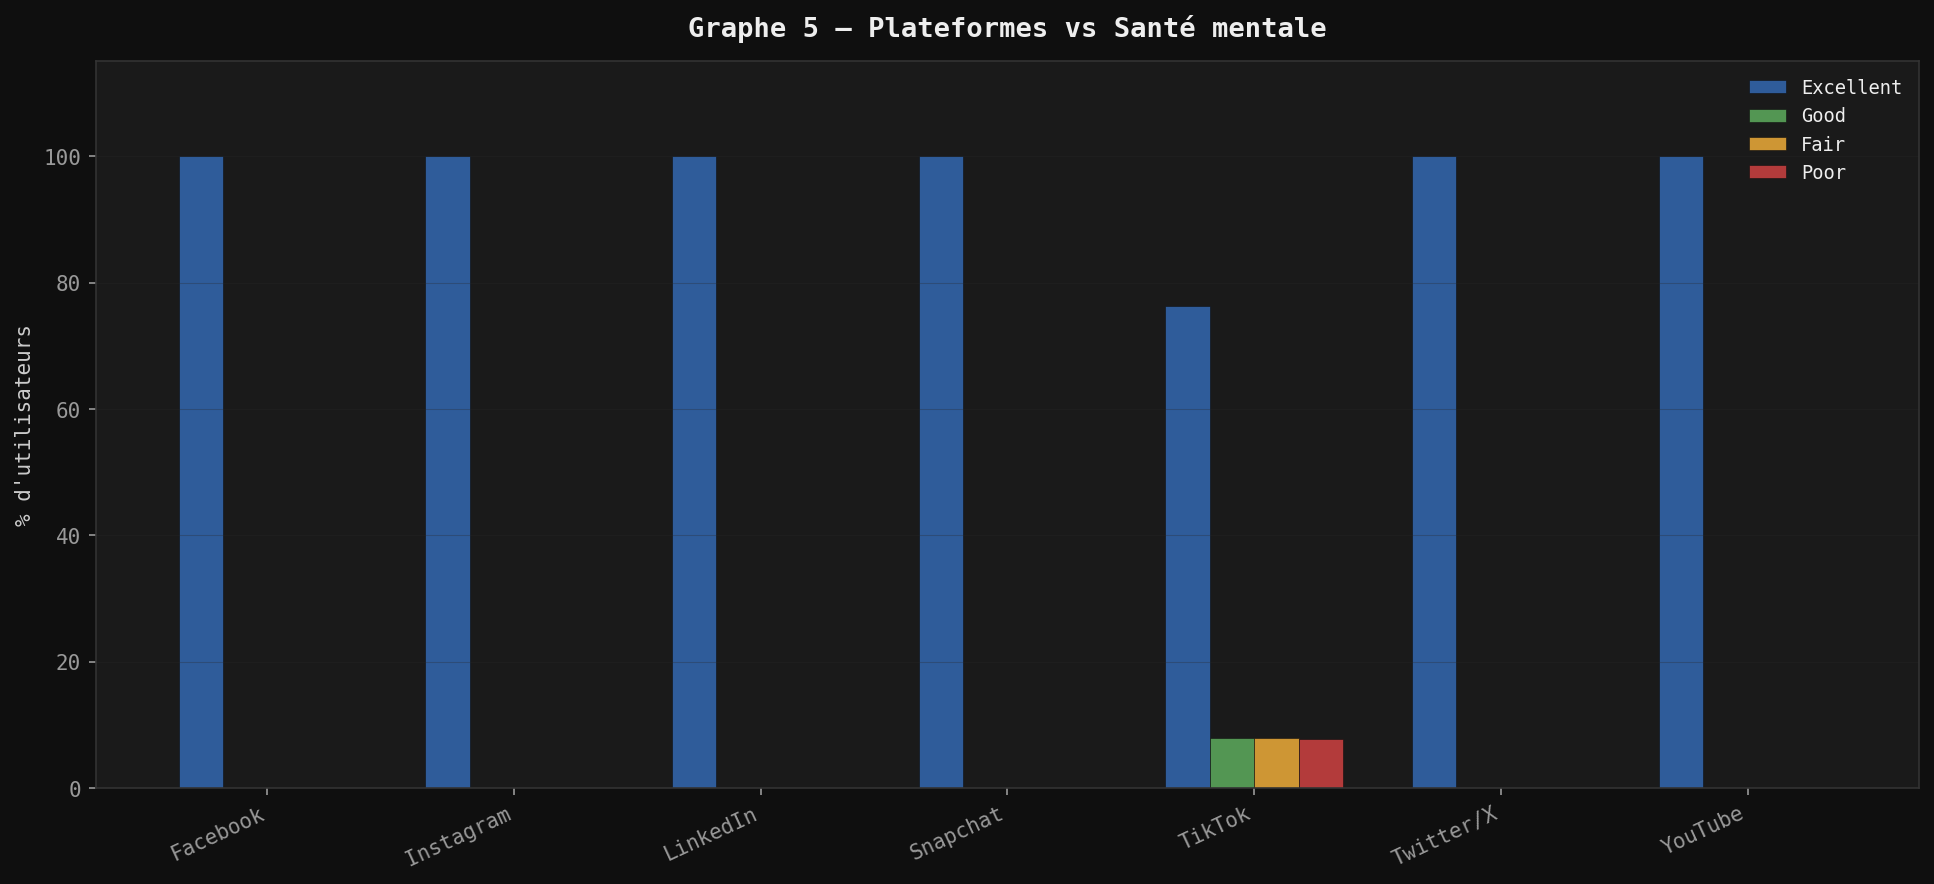
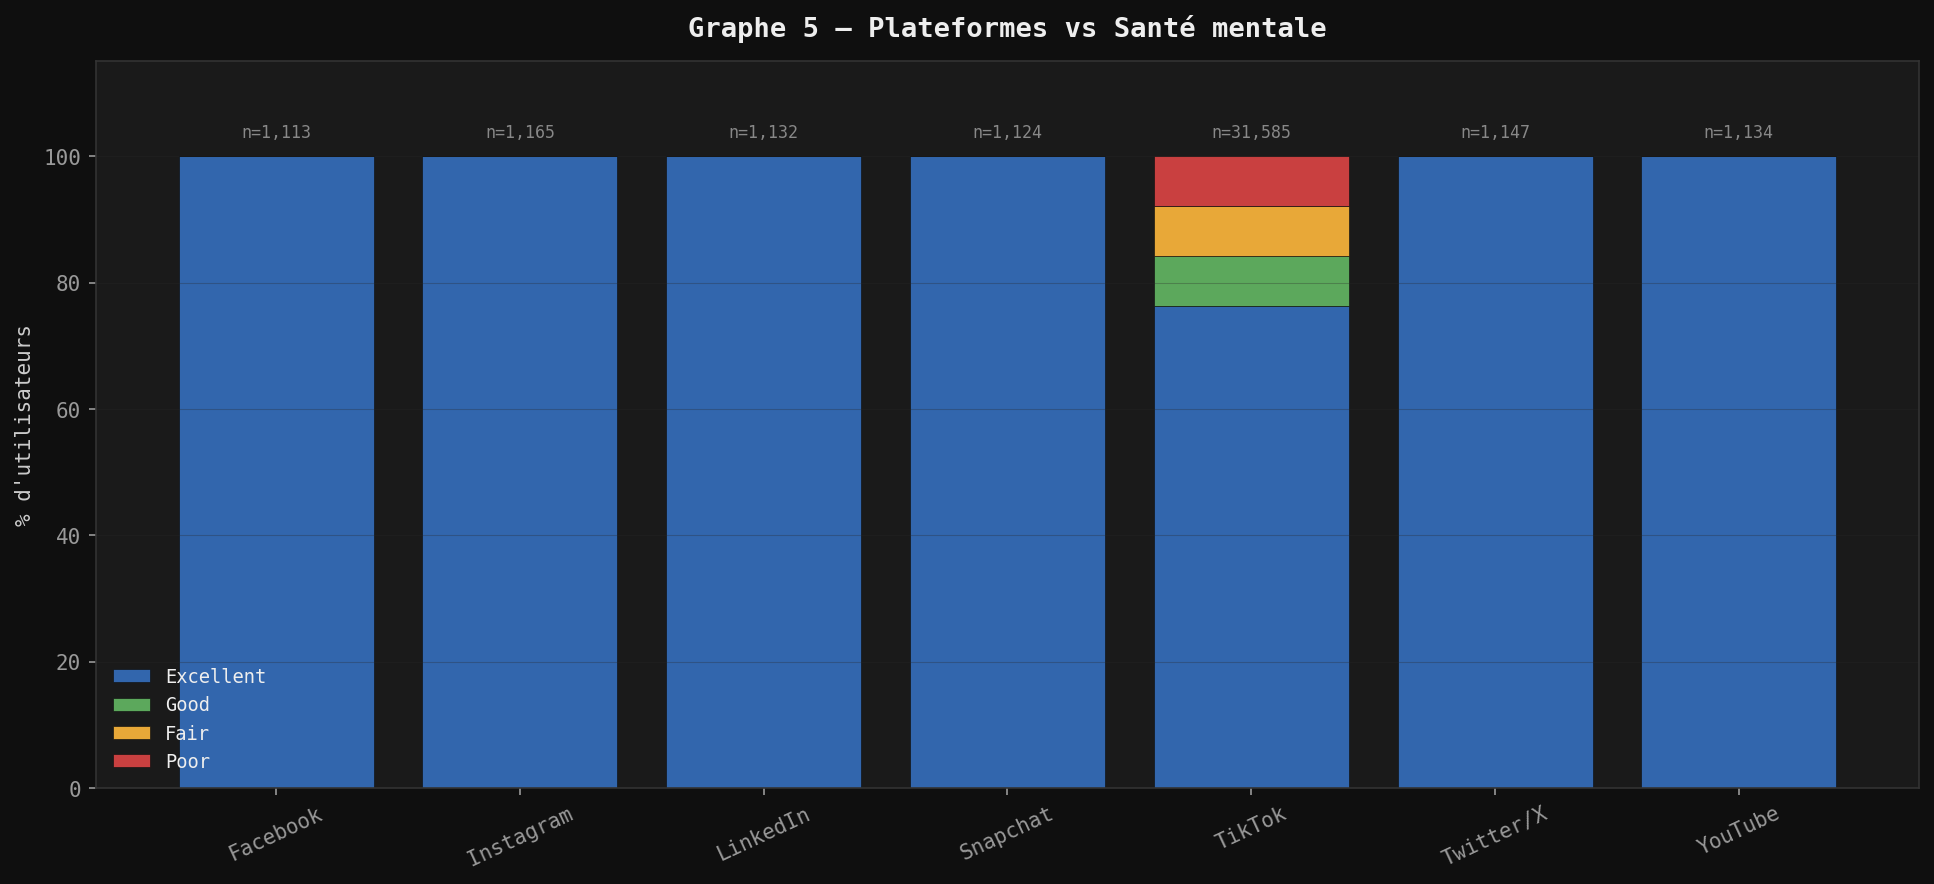
Fix visualization script and update graphs

diff --git a/data/encoding/visualisation_multivar.py b/data/encoding/visualisation_multivar.py
@@ -31,25 +31,25 @@ plt.rcParams.update({
     "axes.titlepad":    12,
 })
 
-MH_COLORS   = {"Excellent": "#3266ad", "Good": "#5ca85c", "Fair": "#e8a838", "Poor": "#c94040"}
-MH_ORDER    = ["Excellent", "Good", "Fair", "Poor"]
-GAD_ORDER   = ["Minimal", "Mild", "Moderate", "Severe"]
-PHQ_ORDER   = ["None-Minimal", "Mild", "Moderate", "Moderately Severe", "Severe"]
-PLAT_COLOR  = "#5e9bdc"
+MH_COLORS  = {"Excellent": "#3266ad", "Good": "#5ca85c", "Fair": "#e8a838", "Poor": "#c94040"}
+MH_ORDER   = ["Excellent", "Good", "Fair", "Poor"]
+GAD_ORDER  = ["Minimal", "Mild", "Moderate", "Severe"]
+PHQ_ORDER  = ["None-Minimal", "Mild", "Moderate", "Moderately Severe", "Severe"]
+PLAT_COLOR = "#5e9bdc"
 
 # ─── CHARGEMENT DES DONNÉES ───────────────────────────────────────────────────
-CSV_PATH = "master_data_imputed.csv"   # <-- mets le bon chemin si nécessaire
+CSV_PATH = "master_data_imputed.csv"
 
 print("Chargement des données...")
-df = pd.read_csv(CSV_PATH)
+df = pd.read_csv(CSV_PATH)   # ← ligne critique corrigée
 print(f"  → {len(df):,} lignes × {df.shape[1]} colonnes")
 
 # Nettoyage stress_level (mixte texte/numérique)
 def clean_stress(v):
     try:
         f = float(v)
-        if f < 4:   return "Low"
-        if f > 7:   return "High"
+        if f < 4:  return "Low"
+        if f > 7:  return "High"
         return "Medium"
     except:
         return str(v)
@@ -82,13 +82,11 @@ def graphe1():
         radius=1.0,
     )
 
-    # Centre
     ax.text(0, 0.08, f"{total:,.0f}", ha="center", va="center",
             fontsize=22, fontweight="bold", color="#eeeeee")
     ax.text(0, -0.18, "utilisateurs", ha="center", va="center",
             fontsize=10, color="#888888")
 
-    # Légende avec %
     legend_labels = [
         f"{m}  —  {counts[m]:,.0f}  ({counts[m]/total*100:.1f}%)"
         for m in MH_ORDER
@@ -96,8 +94,7 @@ def graphe1():
     patches = [mpatches.Patch(color=MH_COLORS[m], label=l)
                for m, l in zip(MH_ORDER, legend_labels)]
     ax.legend(handles=patches, loc="lower center", bbox_to_anchor=(0.5, -0.12),
-              frameon=False, fontsize=10, ncol=2,
-              labelcolor="#cccccc")
+              frameon=False, fontsize=10, ncol=2, labelcolor="#cccccc")
 
     ax.set_title("Graphe 1 — Distribution de la santé mentale", color="#eeeeee")
     plt.tight_layout()
@@ -131,7 +128,6 @@ def graphe2():
         patch.set_facecolor(MH_COLORS[mh])
         patch.set_alpha(0.85)
 
-    # Moyennes
     means = [d.mean() for d in data]
     ax.plot(range(1, len(MH_ORDER)+1), means, "D",
             color="#ffffff", markersize=6, zorder=5, label="Moyenne")
@@ -154,7 +150,7 @@ def graphe2():
 # GRAPHE 3 — Sommeil × Stress (Violinplot)
 # ══════════════════════════════════════════════════════════════════════════════
 def graphe3():
-    stress_order = ["Low", "Medium", "High"]
+    stress_order  = ["Low", "Medium", "High"]
     stress_colors = {"Low": "#5ca85c", "Medium": "#e8a838", "High": "#c94040"}
 
     sub = df[df["stress_level_clean"].isin(stress_order)].copy()
@@ -178,11 +174,11 @@ def graphe3():
     parts["cmedians"].set_color("#ffffff")
     parts["cmedians"].set_linewidth(2)
 
-    # Boxplot intérieur
     for i, s in enumerate(stress_order):
         d = sub[sub["stress_level_clean"] == s]["sleep_hours"]
         q1, med, q3 = d.quantile([0.25, 0.5, 0.75])
-        ax.plot([i, i], [q1, q3], color="#ffffff", linewidth=4, solid_capstyle="round", zorder=3)
+        ax.plot([i, i], [q1, q3], color="#ffffff", linewidth=4,
+                solid_capstyle="round", zorder=3)
         ax.plot(i, med, "o", color="#0f0f0f", markersize=5, zorder=4)
 
     ax.set_xticks(range(len(stress_order)))
@@ -215,7 +211,6 @@ def graphe4():
                    color=arch_colors[:len(counts)], height=0.55,
                    edgecolor="#0f0f0f", linewidth=0.5)
 
-    # Valeurs + %
     total = counts.sum()
     for bar, val in zip(bars, counts.values):
         ax.text(val + total * 0.005, bar.get_y() + bar.get_height() / 2,
@@ -236,43 +231,43 @@ def graphe4():
 
 
 # ══════════════════════════════════════════════════════════════════════════════
-# GRAPHE 5 — Plateformes × Santé mentale (Bar groupé)
+# GRAPHE 5 — Plateformes × Santé mentale (Stacked bar)
 # ══════════════════════════════════════════════════════════════════════════════
 def graphe5():
     platforms = df["primary_platform"].value_counts().index.tolist()
 
-    # Calcul des % par plateforme
     records = []
     for p in platforms:
-        sub = df[df["primary_platform"] == p]
+        sub   = df[df["primary_platform"] == p]
         total = len(sub)
         for mh in MH_ORDER:
             pct = (sub["mental_health_status"] == mh).sum() / total * 100
             records.append({"platform": p, "mh": mh, "pct": pct})
 
-    pivot = pd.DataFrame(records).pivot(index="platform", columns="mh", values="pct")
-    pivot = pivot.reindex(columns=MH_ORDER).fillna(0)
-
-    n_plat = len(pivot)
-    n_mh   = len(MH_ORDER)
-    x      = np.arange(n_plat)
-    width  = 0.18
+    pivot = pd.DataFrame(records).pivot(
+        index="platform", columns="mh", values="pct"
+    ).reindex(columns=MH_ORDER).fillna(0)
 
     fig, ax = plt.subplots(figsize=(13, 6))
 
-    for i, mh in enumerate(MH_ORDER):
-        offset = (i - n_mh / 2 + 0.5) * width
-        bars   = ax.bar(x + offset, pivot[mh], width,
-                        color=MH_COLORS[mh], alpha=0.88,
-                        label=mh, edgecolor="#0f0f0f", linewidth=0.3)
+    bottom = np.zeros(len(pivot))
+    for mh in MH_ORDER:
+        ax.bar(pivot.index, pivot[mh], bottom=bottom,
+               color=MH_COLORS[mh], label=mh,
+               edgecolor="#0f0f0f", linewidth=0.3)
+        bottom += pivot[mh].values
 
-    ax.set_xticks(x)
-    ax.set_xticklabels(pivot.index, rotation=25, ha="right")
+    for i, p in enumerate(pivot.index):
+        total = len(df[df["primary_platform"] == p])
+        ax.text(i, 103, f"n={total:,}", ha="center",
+                fontsize=8, color="#888888")
+
     ax.set_ylabel("% d'utilisateurs")
     ax.set_title("Graphe 5 — Plateformes vs Santé mentale")
+    ax.set_ylim(0, 115)
     ax.legend(frameon=False, fontsize=9)
     ax.grid(axis="y", alpha=0.3)
-    ax.set_ylim(0, 115)
+    ax.tick_params(axis="x", rotation=25)
 
     plt.tight_layout()
     plt.savefig("graphe5_plateformes.png", dpi=150, bbox_inches="tight", facecolor="#0f0f0f")
@@ -299,18 +294,13 @@ def graphe6():
 
     cmap = sns.diverging_palette(220, 10, as_cmap=True)
     sns.heatmap(
-        corr,
-        ax=ax,
-        cmap=cmap,
+        corr, ax=ax, cmap=cmap,
         vmin=-1, vmax=1, center=0,
         annot=True, fmt=".2f",
         annot_kws={"size": 9, "color": "#eeeeee"},
-        linewidths=0.5,
-        linecolor="#0f0f0f",
-        square=True,
-        cbar_kws={"shrink": 0.75},
-        xticklabels=labels,
-        yticklabels=labels,
+        linewidths=0.5, linecolor="#0f0f0f",
+        square=True, cbar_kws={"shrink": 0.75},
+        xticklabels=labels, yticklabels=labels,
     )
 
     ax.set_title("Graphe 6 — Matrice de corrélation (Pearson)")
@@ -341,14 +331,10 @@ def graphe7():
 
     cmap = sns.color_palette("Blues", as_cmap=True)
     sns.heatmap(
-        pivot,
-        ax=ax,
-        cmap=cmap,
-        annot=True,
-        fmt=",",
+        pivot, ax=ax, cmap=cmap,
+        annot=True, fmt=",",
         annot_kws={"size": 10},
-        linewidths=0.5,
-        linecolor="#0f0f0f",
+        linewidths=0.5, linecolor="#0f0f0f",
         cbar_kws={"shrink": 0.75, "label": "Nombre d'utilisateurs"},
     )
 
@@ -370,13 +356,13 @@ if __name__ == "__main__":
     print("  VISUALISATION MULTIVARIÉE — Digital Health Dataset")
     print("=" * 55)
 
-    graphe1()   # Donut — santé mentale
-    graphe2()   # Boxplot — écran vs santé mentale
-    graphe3()   # Violinplot — sommeil vs stress
-    graphe4()   # Bar horizontal — archétypes
-    graphe5()   # Bar groupé — plateformes vs santé mentale
-    graphe6()   # Heatmap — corrélations
-    graphe7()   # Heatmap — GAD-7 × PHQ-9
+    graphe1()
+    graphe2()
+    graphe3()
+    graphe4()
+    graphe5()
+    graphe6()
+    graphe7()
 
     print("\n✅ Tous les graphes générés !")
     print("   Les fichiers PNG sont dans le dossier courant.")
